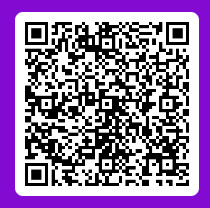
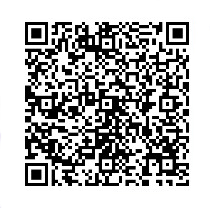
Update

Changed region(s): [[0.0, 0.0, 1.0, 1.0]]

diff --git a/README-ptbr.md b/README-ptbr.md
@@ -3,15 +3,15 @@
 Aqui você pode fazer doações de qualquer quantia para manter o projeto ativo.
 O preço do café já nos ajuda. :coffee:
 
-Você pode escolher uma das formas abaixo clicando na imagem:
+Você pode escolher uma das opções abaixo escaneando o QR Code ou usando chave para PIX:
 
 <div class="donation">
 <table border="1">
   <thead>
     <tr>
-      <th>Usando app PicPay (BRL)</th>
-      <th>Usando app Nubank (BRL)</th>
-      <th>Usando PIX (BRL)</th>
+      <th>QR Code 1 (BRL)</th>
+      <th>QR Code 2 (BRL)</th>
+      <th>Chave PIX (BRL)</th>
     </tr>
   </thead> 
   <tbody>
@@ -27,12 +27,8 @@ Você pode escolher uma das formas abaixo clicando na imagem:
        </a>
      </td>
      <td>
-          <p align="center"> <strong>Chave PIX:</strong><br/> b1cc1ef8-421a-4059-9ebc-99a5aec3ef43</p>
+          <p align="center"> b1cc1ef8-421a-4059-9ebc-99a5aec3ef43</p>
      </td>
-    <tr>
-      <td>Não têm? <a href="https://www.picpay.com/convite?PF4BCW" target="_blank">Crie</a> e receba bônus.</td>
-      <td>Não têm? <a href="https://nubank.com.br/indicacao/nu/?id=UOGZCLY2mWMAAAF5uWQb5A&msg=cb40c&utm_channel=social&utm_medium=referral&utm_source=mgm" target="_blank">Crie</a> e receba bônus</td>
-    </tr>
    </tr>
   </tbody>
 </table>
